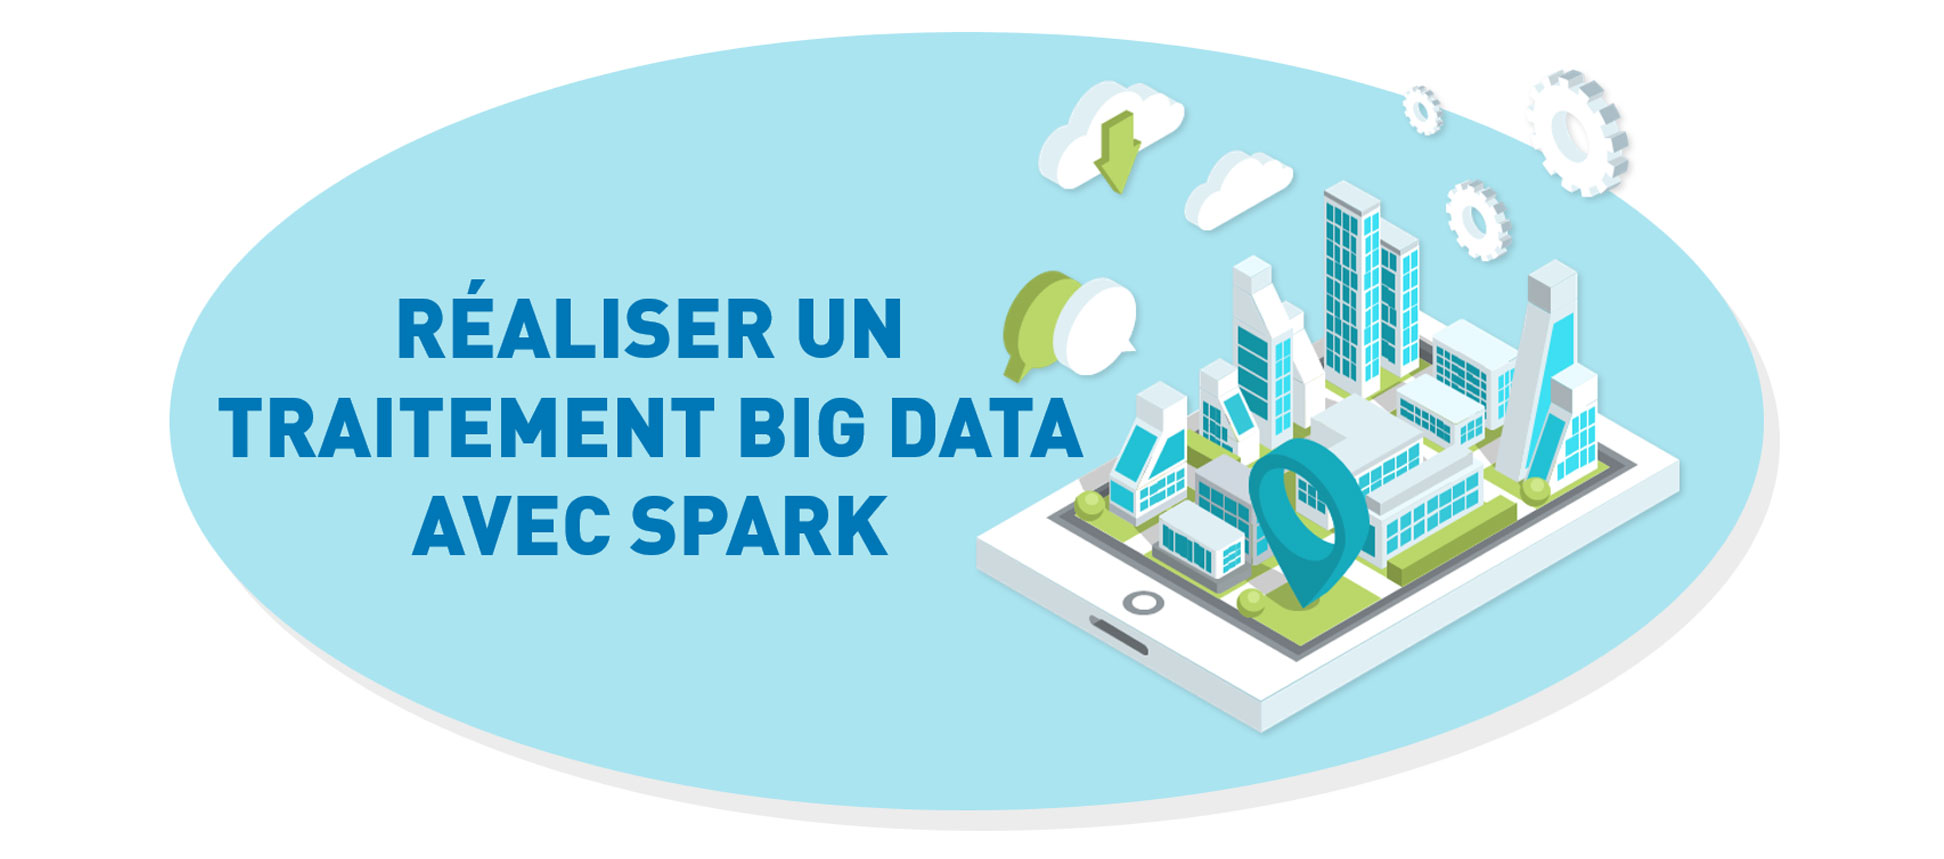
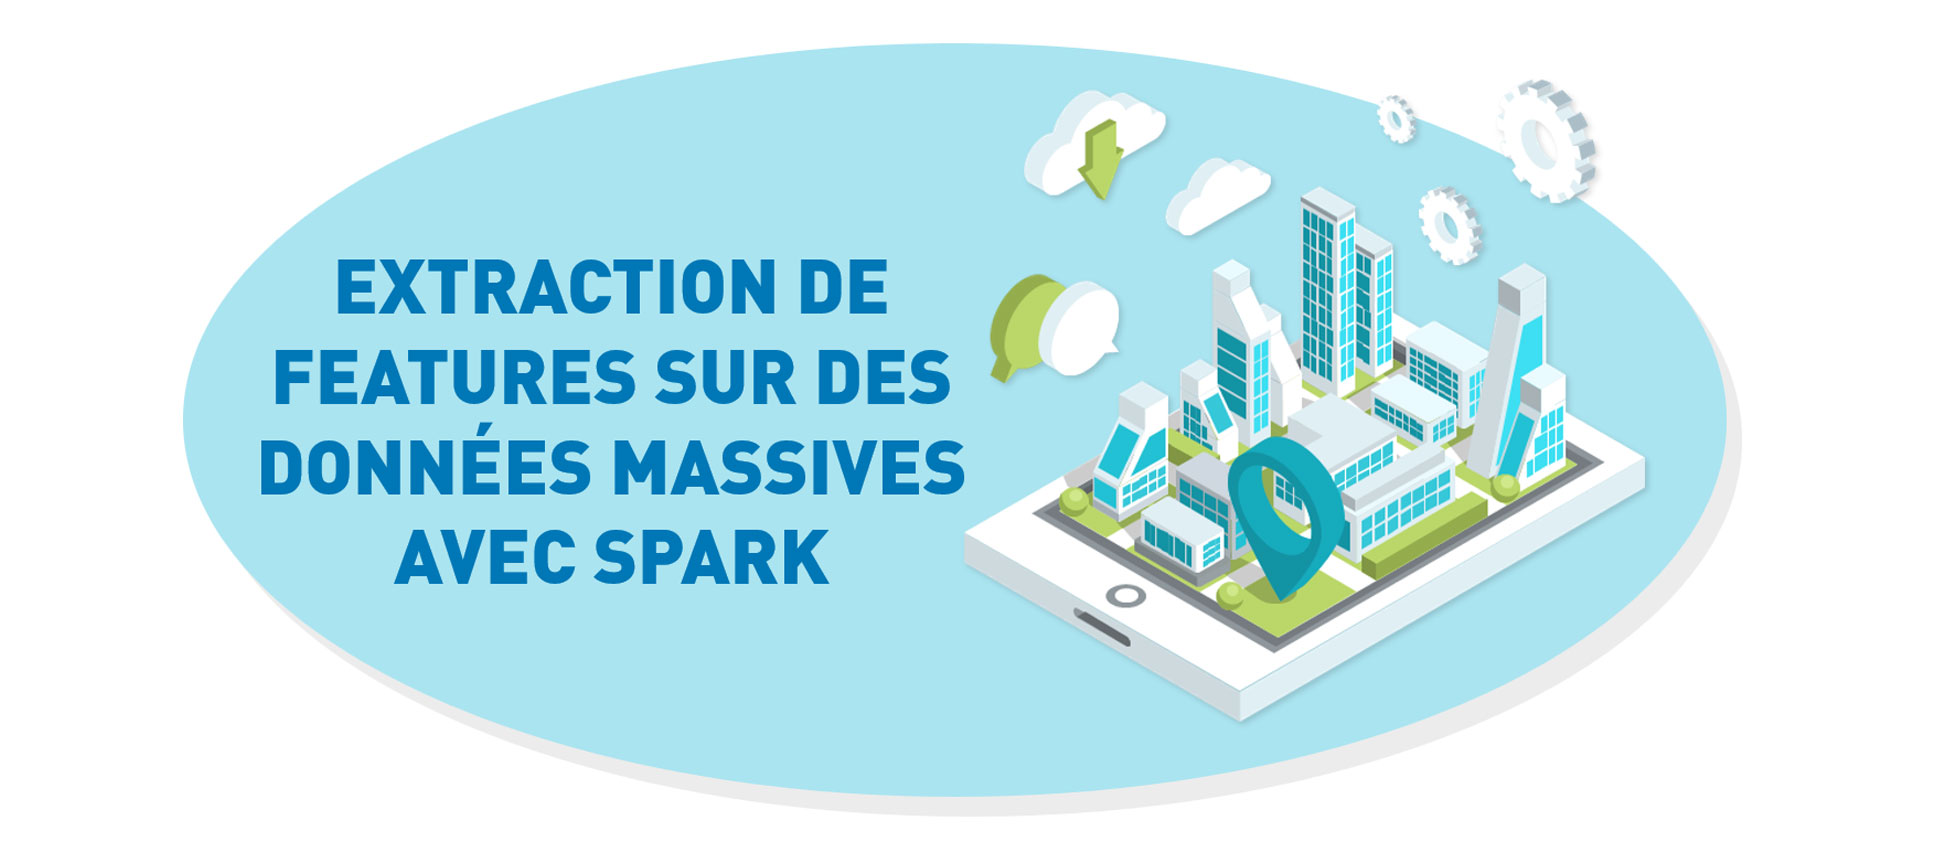
Modif titre

diff --git a/07-traitement-aws-spark.html b/07-traitement-aws-spark.html
@@ -49,7 +49,7 @@
 						<li><a href="04-suggestion-mots-cles.html">Suggestion automatique de mots-cl&eacute;s</a></li>
 						<li><a href="05-classer-des-images.html">Identifier des races de chiens sur des photos avec TensorFlow</a></li>
 						<li><a href="06-extraction-mots-cles.html">Nouvelles méthodes d'extraction de mots-cl&eacute;s</a></li>
-						<li><a href="07-traitement-aws-spark.html">R&eacute;aliser un traitement Big Data avec Spark</a></li>
+						<li><a href="07-traitement-aws-spark.html">Extraction de features sur des donn&eacute;es massives avec Spark</a></li>
 						<li><a href="08-cadrage-ia.html">R&eacute;aliser le cadrage d'un projet IA</a></li>
 					</ul>
 			</nav>
@@ -88,7 +88,7 @@
 						<p>
 							<blockquote>
 								<img src="images/info.png" width="35" height="35"/>
-								<span><b>Retrouvez tout le code de ce projet sur <a href="https://github.com/BiGHeaDMaX/Traitement-Big-Data-avec-Spark" target="_blank">mon GitHub</a></b></span>
+								<span><b>Retrouvez tout le code de ce projet sur <a href="https://github.com/BiGHeaDMaX/Extraction-features-avec-Spark" target="_blank">mon GitHub</a></b></span>
 							</blockquote>
 						</p>
 						
@@ -315,7 +315,7 @@
 						<p>
 							<blockquote>
 								<img src="images/info.png" width="35" height="35"/>
-								<span><b>Retrouvez tout le code de ce projet sur <a href="https://github.com/BiGHeaDMaX/Traitement-Big-Data-avec-Spark" target="_blank">mon GitHub</a></b></span>
+								<span><b>Retrouvez tout le code de ce projet sur <a href="https://github.com/BiGHeaDMaX/Extraction-features-avec-Spark" target="_blank">mon GitHub</a></b></span>
 							</blockquote>
 						</p>
 

diff --git a/index.html b/index.html
@@ -47,7 +47,7 @@
 								<li><a href="04-suggestion-mots-cles.html">Suggestion automatique de mots-cl&eacute;s</a></li>
 								<li><a href="05-classer-des-images.html">Identifier des races de chiens sur des photos avec TensorFlow</a></li>
 								<li><a href="06-extraction-mots-cles.html">Nouvelles méthodes d'extraction de mots-cl&eacute;s</a></li>
-								<li><a href="07-traitement-aws-spark.html">R&eacute;aliser un traitement Big Data avec Spark</a></li>
+								<li><a href="07-traitement-aws-spark.html">Extraction de features sur des donn&eacute;es massives avec Spark</a></li>
 								<li><a href="08-cadrage-ia.html">R&eacute;aliser le cadrage d'un projet IA</a></li>
 							</ul>
 					</nav>
@@ -163,12 +163,14 @@
 										<img src="images/vignettes/vignettes_cloud.jpg" alt="" />
 									</span>
 									<a href="07-traitement-aws-spark.html">
-									<span><mark class="mark-titre"><h2>R&eacute;aliser un traitement Big Data avec Spark</h2></mark></span>
+									<span><mark class="mark-titre"><h2>Extraction de features sur des donn&eacute;es massives avec Spark</h2></mark></span>
 										<div class="content">
 										<mark class="mark-keyword">Spark</mark>
 										<mark class="mark-keyword">Hadoop</mark>
 										<mark class="mark-keyword">AWS</mark>
 										<mark class="mark-keyword">Features Extraction</mark>
+										<mark class="mark-keyword">Transfer Learning</mark>
+										<mark class="mark-keyword">PCA</mark>
 										</div>
 									</a>
 								</article>

diff --git a/00-cv.html b/00-cv.html
@@ -49,7 +49,7 @@
 						<li><a href="04-suggestion-mots-cles.html">Suggestion automatique de mots-cl&eacute;s</a></li>
 						<li><a href="05-classer-des-images.html">Identifier des races de chiens sur des photos avec TensorFlow</a></li>
 						<li><a href="06-extraction-mots-cles.html">Nouvelles méthodes d'extraction de mots-cl&eacute;s</a></li>
-						<li><a href="07-traitement-aws-spark.html">R&eacute;aliser un traitement Big Data avec Spark</a></li>
+						<li><a href="07-traitement-aws-spark.html">Extraction de features sur des donn&eacute;es massives avec Spark</a></li>
 						<li><a href="08-cadrage-ia.html">R&eacute;aliser le cadrage d'un projet IA</a></li>
 					</ul>
 			</nav>

diff --git a/01-preparer-des-donnees.html b/01-preparer-des-donnees.html
@@ -49,7 +49,7 @@
 						<li><a href="04-suggestion-mots-cles.html">Suggestion automatique de mots-cl&eacute;s</a></li>
 						<li><a href="05-classer-des-images.html">Identifier des races de chiens sur des photos avec TensorFlow</a></li>
 						<li><a href="06-extraction-mots-cles.html">Nouvelles méthodes d'extraction de mots-cl&eacute;s</a></li>
-						<li><a href="07-traitement-aws-spark.html">R&eacute;aliser un traitement Big Data avec Spark</a></li>
+						<li><a href="07-traitement-aws-spark.html">Extraction de features sur des donn&eacute;es massives avec Spark</a></li>
 						<li><a href="08-cadrage-ia.html">R&eacute;aliser le cadrage d'un projet IA</a></li>
 					</ul>
 			</nav>

diff --git a/02-anticiper-la-consommation.html b/02-anticiper-la-consommation.html
@@ -49,7 +49,7 @@
 						<li><a href="04-suggestion-mots-cles.html">Suggestion automatique de mots-cl&eacute;s</a></li>
 						<li><a href="05-classer-des-images.html">Identifier des races de chiens sur des photos avec TensorFlow</a></li>
 						<li><a href="06-extraction-mots-cles.html">Nouvelles méthodes d'extraction de mots-cl&eacute;s</a></li>
-						<li><a href="07-traitement-aws-spark.html">R&eacute;aliser un traitement Big Data avec Spark</a></li>
+						<li><a href="07-traitement-aws-spark.html">Extraction de features sur des donn&eacute;es massives avec Spark</a></li>
 						<li><a href="08-cadrage-ia.html">R&eacute;aliser le cadrage d'un projet IA</a></li>
 					</ul>
 			</nav>

diff --git a/03-segmenter-des-clients.html b/03-segmenter-des-clients.html
@@ -49,7 +49,7 @@
 						<li><a href="04-suggestion-mots-cles.html">Suggestion automatique de mots-cl&eacute;s</a></li>
 						<li><a href="05-classer-des-images.html">Identifier des races de chiens sur des photos avec TensorFlow</a></li>
 						<li><a href="06-extraction-mots-cles.html">Nouvelles méthodes d'extraction de mots-cl&eacute;s</a></li>
-						<li><a href="07-traitement-aws-spark.html">R&eacute;aliser un traitement Big Data avec Spark</a></li>
+						<li><a href="07-traitement-aws-spark.html">Extraction de features sur des donn&eacute;es massives avec Spark</a></li>
 						<li><a href="08-cadrage-ia.html">R&eacute;aliser le cadrage d'un projet IA</a></li>
 					</ul>
 			</nav>

diff --git a/04-suggestion-mots-cles.html b/04-suggestion-mots-cles.html
@@ -49,7 +49,7 @@
 						<li><a href="04-suggestion-mots-cles.html">Suggestion automatique de mots-cl&eacute;s</a></li>
 						<li><a href="05-classer-des-images.html">Identifier des races de chiens sur des photos avec TensorFlow</a></li>
 						<li><a href="06-extraction-mots-cles.html">Nouvelles méthodes d'extraction de mots-cl&eacute;s</a></li>
-						<li><a href="07-traitement-aws-spark.html">R&eacute;aliser un traitement Big Data avec Spark</a></li>
+						<li><a href="07-traitement-aws-spark.html">Extraction de features sur des donn&eacute;es massives avec Spark</a></li>
 						<li><a href="08-cadrage-ia.html">R&eacute;aliser le cadrage d'un projet IA</a></li>
 					</ul>
 			</nav>

diff --git a/05-classer-des-images.html b/05-classer-des-images.html
@@ -49,7 +49,7 @@
 						<li><a href="04-suggestion-mots-cles.html">Suggestion automatique de mots-cl&eacute;s</a></li>
 						<li><a href="05-classer-des-images.html">Identifier des races de chiens sur des photos avec TensorFlow</a></li>
 						<li><a href="06-extraction-mots-cles.html">Nouvelles méthodes d'extraction de mots-cl&eacute;s</a></li>
-						<li><a href="07-traitement-aws-spark.html">R&eacute;aliser un traitement Big Data avec Spark</a></li>
+						<li><a href="07-traitement-aws-spark.html">Extraction de features sur des donn&eacute;es massives avec Spark</a></li>
 						<li><a href="08-cadrage-ia.html">R&eacute;aliser le cadrage d'un projet IA</a></li>
 					</ul>
 			</nav>

diff --git a/06-extraction-mots-cles.html b/06-extraction-mots-cles.html
@@ -49,7 +49,7 @@
 						<li><a href="04-suggestion-mots-cles.html">Suggestion automatique de mots-cl&eacute;s</a></li>
 						<li><a href="05-classer-des-images.html">Identifier des races de chiens sur des photos avec TensorFlow</a></li>
 						<li><a href="06-extraction-mots-cles.html">Nouvelles méthodes d'extraction de mots-cl&eacute;s</a></li>
-						<li><a href="07-traitement-aws-spark.html">R&eacute;aliser un traitement Big Data avec Spark</a></li>
+						<li><a href="07-traitement-aws-spark.html">Extraction de features sur des donn&eacute;es massives avec Spark</a></li>
 						<li><a href="08-cadrage-ia.html">R&eacute;aliser le cadrage d'un projet IA</a></li>
 					</ul>
 			</nav>

diff --git a/08-cadrage-ia.html b/08-cadrage-ia.html
@@ -50,7 +50,7 @@
 						<li><a href="04-suggestion-mots-cles.html">Suggestion automatique de mots-cl&eacute;s</a></li>
 						<li><a href="05-classer-des-images.html">Identifier des races de chiens sur des photos avec TensorFlow</a></li>
 						<li><a href="06-extraction-mots-cles.html">Nouvelles méthodes d'extraction de mots-cl&eacute;s</a></li>
-						<li><a href="07-traitement-aws-spark.html">R&eacute;aliser un traitement Big Data avec Spark</a></li>
+						<li><a href="07-traitement-aws-spark.html">Extraction de features sur des donn&eacute;es massives avec Spark</a></li>
 						<li><a href="08-cadrage-ia.html">R&eacute;aliser le cadrage d'un projet IA</a></li>
 					</ul>
 			</nav>
